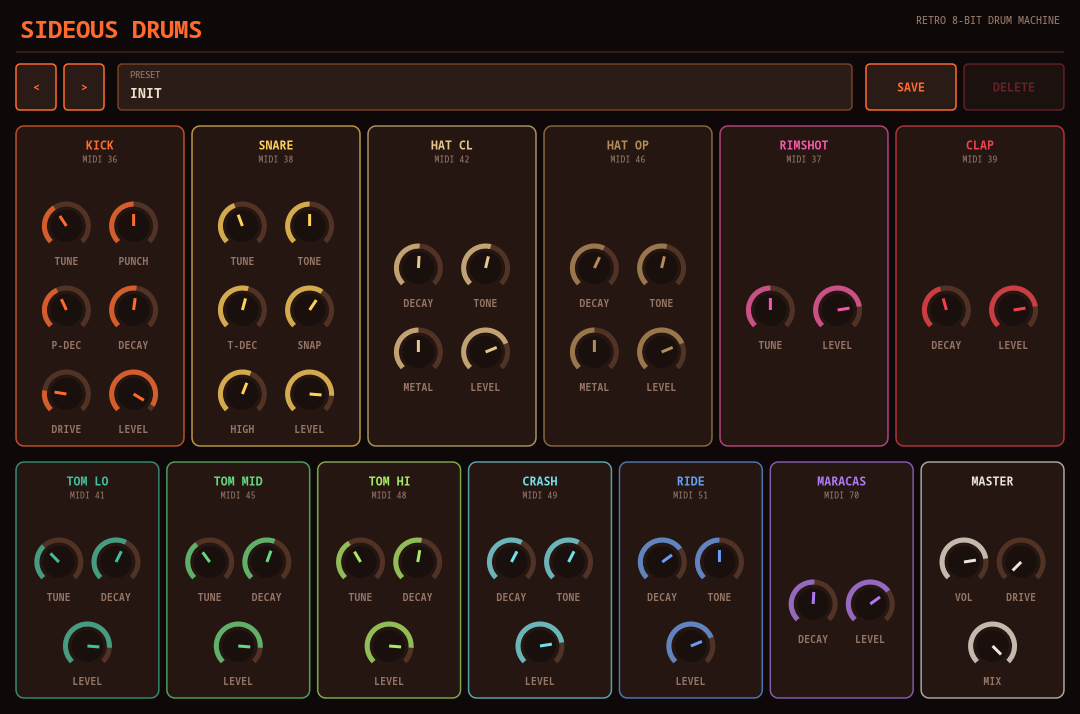
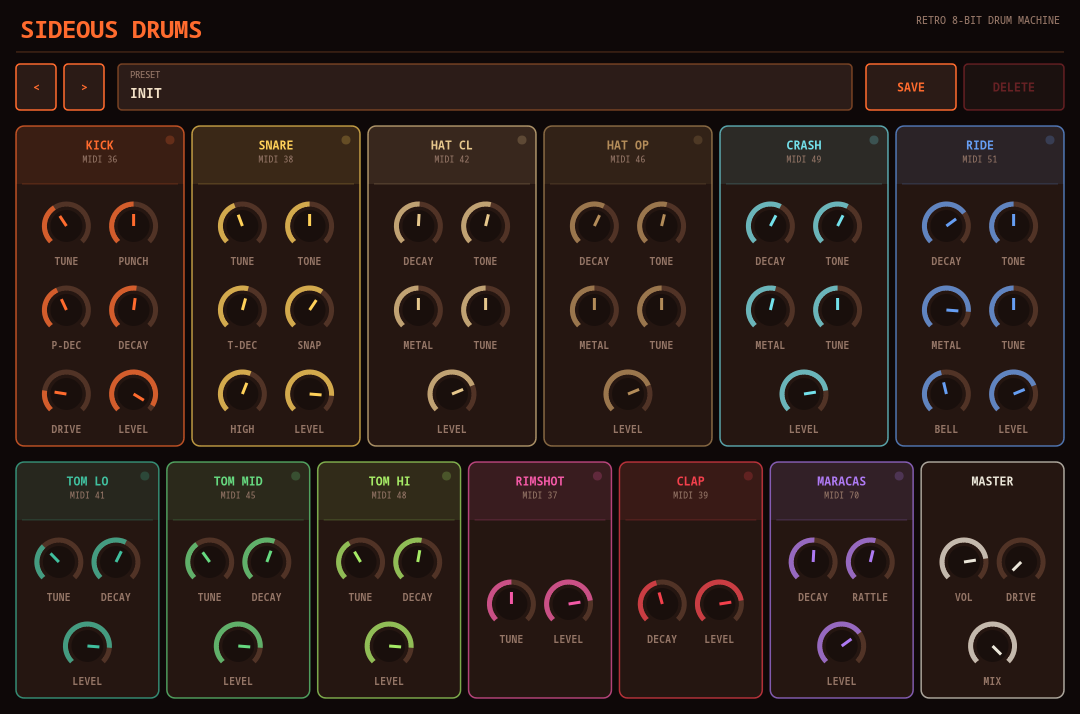
Update Sideous Drums screenshot and feature list
New screenshot reflects the reworked layout (crash/ride moved up top with
hi-hats, new Tune/Bell/Rattle knobs). Feature list now covers cymbal
Metal/Tune, Ride's Bell layer, Maracas rattle, the click-to-audition
trigger pads, and host note-name support (Ardour MIDNAM / VST3 pitch names).

diff --git a/index.html b/index.html
@@ -284,8 +284,12 @@
     <ul class="features">
       <li>Fixed 12-voice kit (kick, snare, hats, 3 toms, crash, ride, rimshot, clap, maracas), GM-ish MIDI map</li>
       <li>Kick/toms use a pitch-envelope "sweep" trick; snare layers pitched tone over independently-decaying noise</li>
-      <li>6-oscillator FM metallic stack for hats/crash/ride, blendable against filtered noise via a Metal knob</li>
+      <li>6-oscillator FM metallic stack for hats/crash/ride, with Metal blend and a Tune knob that transposes the whole partial set like a real analog cymbal "tune" pot</li>
+      <li>Ride adds a tighter, more harmonic partial cluster plus a dedicated pitched Bell "ping" layer so it's not just Crash with a longer decay</li>
+      <li>Maracas is a resonant-bandpass multi-grain "rattle" (Rattle knob) instead of a plain noise burst — reads as a shaker, not another hi-hat</li>
       <li>Closed/open hi-hat choke group, classic 3-burst "flam" handclap</li>
+      <li>Click-to-audition trigger pads and live per-voice LED meters built into each column header — hear a sound change without touching a MIDI keyboard</li>
+      <li>Host-visible note names: Ardour reads them automatically via LV2 MIDNAM, VST3 hosts via IUnitInfo pitch names</li>
       <li>Two builds: single stereo mix, or a 13-bus multi-out version for per-drum routing/sends</li>
       <li>Master Drive/Mix stage as a character control, not just a limiter</li>
       <li>Built-in file-based preset browser with 10 factory presets (808/909, Trap, Lo-Fi Chip, Industrial, and more), works in every format including the JACK standalone</li>
